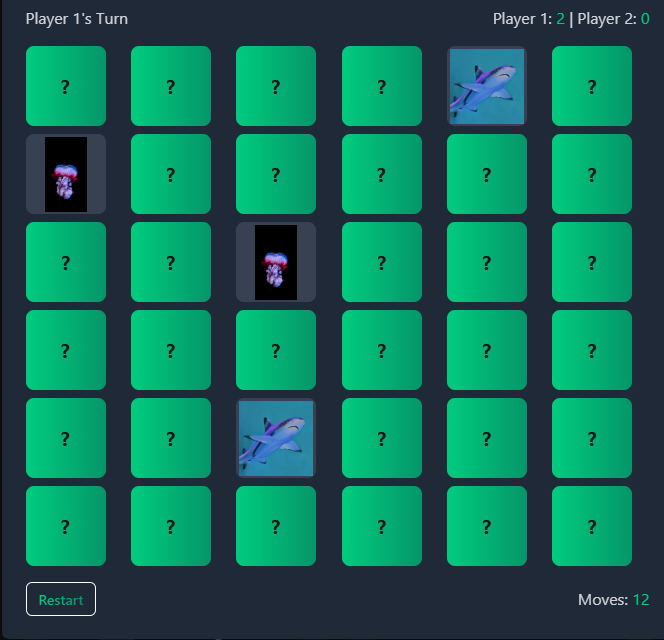
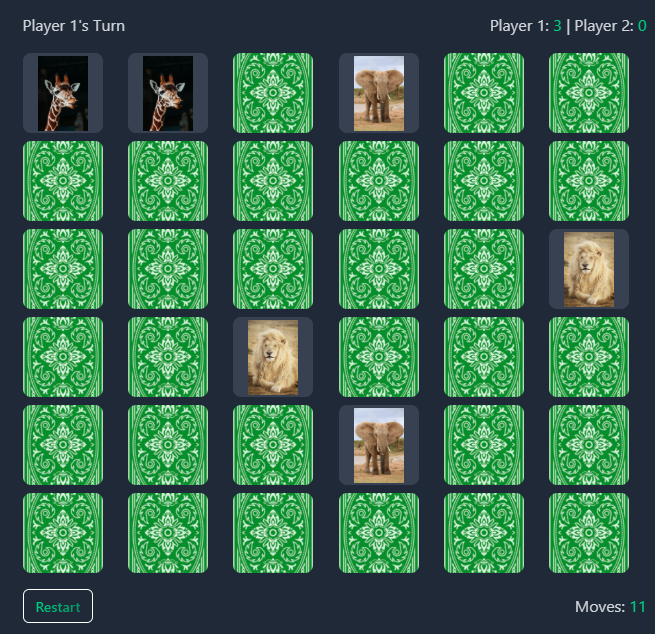
cards

diff --git a/src/components/Solitaire.jsx b/src/components/Solitaire.jsx
@@ -203,15 +203,15 @@ const Solitaire = ({ onClose }) => {
         }
         return;
       }
-      setStock(waste.map((c) => ({ ...c, faceUp: false })).reverse());
+      setStock(waste.map((c) => ({ ...c, faceUp: false })));
       setWaste([]);
     } else {
       // Deal three cards at a time
       const cardsToDeal = Math.min(3, stock.length);
       const newCards = stock
-        .slice(-cardsToDeal)
+        .slice(0, cardsToDeal)
         .map((card) => ({ ...card, faceUp: true }));
-      setStock(stock.slice(0, -cardsToDeal));
+      setStock(stock.slice(cardsToDeal));
       setWaste([...waste, ...newCards]);
     }
   };
@@ -320,24 +320,41 @@ const Solitaire = ({ onClose }) => {
   }
 
   // Card rendering
-  const renderCard = (card, isSelected) => (
+  const renderCard = (card, isSelected, style = {}) => (
     <div
-      className={`w-12 h-18 sm:w-16 sm:h-24 rounded-lg border-2 flex flex-col items-center justify-center text-sm sm:text-xl font-bold shadow-md select-none cursor-pointer
-        ${CARD_COLORS[card.color]} ${isSelected ? "ring-4 ring-yellow-400" : ""}
-        ${!card.faceUp ? "bg-gray-700 border-gray-500 text-gray-700" : ""}
+      className={`w-12 h-18 sm:w-16 sm:h-24 rounded-lg border-2 flex flex-col items-center justify-between text-xs sm:text-base font-bold shadow-md select-none cursor-pointer
+        ${card.faceUp ? "bg-white border-gray-400" : "border-gray-500"}
+        ${isSelected ? "ring-4 ring-yellow-400" : ""}
       `}
       style={{
         marginTop: window.innerWidth < 640 ? "-1.8rem" : "-2.2rem",
         zIndex: isSelected ? 10 : undefined,
+        ...style,
       }}
     >
       {card.faceUp ? (
         <>
-          <span className="text-xs sm:text-base">{card.rank}</span>
-          <span className="text-xs sm:text-base">{card.suit}</span>
+          <span
+            className={`self-start ml-1 mt-1 ${
+              COLORS[card.suit] === "red" ? "text-red-600" : "text-black"
+            }`}
+          >
+            {card.rank} {card.suit}
+          </span>
+          <span
+            className={`self-end mr-1 mb-1 rotate-180 ${
+              COLORS[card.suit] === "red" ? "text-red-600" : "text-black"
+            }`}
+          >
+            {card.rank} {card.suit}
+          </span>
         </>
       ) : (
-        <span className="text-gray-400 text-sm sm:text-base">🂠</span>
+        <img
+          src="/Green card.png"
+          alt="Card back"
+          className="w-full h-full object-cover rounded-lg"
+        />
       )}
     </div>
   );
@@ -358,55 +375,81 @@ const Solitaire = ({ onClose }) => {
           Solitaire
         </h2>
         {/* Foundations, Stock, and Waste above tableau, aligned to columns */}
+        {/* Replace the top row flex with a grid for precise alignment */}
         <div
-          className="w-full flex flex-row justify-center mb-6 sm:mb-8 lg:mb-12 relative"
-          style={{ minHeight: "80px", paddingTop: "25px" }}
+          className="w-full grid grid-cols-8 gap-0 max-w-[900px] mx-auto px-2 items-start"
+          style={{ marginBottom: "2rem" }}
         >
-          {/* 7 columns: 2 for stock/waste, 1 spacer, 4 for foundations */}
-          <div className="flex flex-row w-full max-w-[560px] mx-auto px-2">
-            {/* Stock above col 0 */}
-            <div className="flex flex-col items-center w-12 sm:w-16 mr-2 sm:mr-6">
+          {/* New Game button, far left */}
+          <div
+            className="flex flex-col items-center justify-center col-span-1"
+            style={{ marginRight: "2.5rem" }}
+          >
+            <button
+              onClick={newGame}
+              className="w-12 h-18 sm:w-16 sm:h-24 bg-gradient-to-r from-bright-green to-emerald-600 text-dark-grey rounded-md border border-bright-green hover:from-emerald-600 hover:to-bright-green transition-all duration-300 shadow-[0_0_10px_rgba(0,204,126,0.3)] flex items-center justify-center text-base sm:text-lg font-bold"
+              style={{ minWidth: "3rem", minHeight: "4.5rem" }}
+            >
+              New
+              <br />
+              Game
+            </button>
+          </div>
+          {/* Stock pile, column 2, aligns with first tableau column */}
+          <div className="flex flex-col items-center w-12 sm:w-16 col-span-1">
+            <div
+              className="w-12 h-18 sm:w-16 sm:h-24 rounded-lg border-2 border-amber-700 bg-black flex flex-col items-center justify-center cursor-pointer mb-2"
+              onClick={handleStockClick}
+            >
+              {stock.length === 0 ? (
+                <span className="text-gray-700 text-lg sm:text-2xl">↺</span>
+              ) : (
+                <span className="text-gray-400 text-lg sm:text-2xl">🂠</span>
+              )}
+            </div>
+          </div>
+          {/* Waste pile, column 3 */}
+          <div className="flex flex-col items-start w-36 h-18 sm:w-48 sm:h-24 col-span-1">
+            <div
+              className="relative w-36 h-18 sm:w-48 sm:h-24"
+              onClick={() => handleCardClick("waste")}
+            >
+              {waste.length === 0 && (
+                <div className="absolute bottom-0 left-0 w-12 h-18 sm:w-16 sm:h-24 rounded-lg border-2 border-amber-700 bg-black flex items-center justify-center" />
+              )}
+              {waste.length > 0 &&
+                waste.slice(-3).map((card, idx, arr) =>
+                  renderCard(card, idx === arr.length - 1, {
+                    position: "absolute",
+                    left: `calc(${idx} * 3rem)`,
+                    bottom: 0,
+                    zIndex: idx + 1,
+                    cursor: idx === arr.length - 1 ? "pointer" : "default",
+                    pointerEvents: idx === arr.length - 1 ? "auto" : "none",
+                  })
+                )}
+            </div>
+          </div>
+          {/* Spacer, column 4 */}
+          <div className="col-span-1" />
+          {/* Foundations, columns 5-8 */}
+          {foundations.map((pile, i) => (
+            <div
+              key={i}
+              className="flex flex-col items-center w-12 sm:w-16 col-span-1"
+            >
               <div
                 className="w-12 h-18 sm:w-16 sm:h-24 rounded-lg border-2 border-amber-700 bg-black flex flex-col items-center justify-center cursor-pointer mb-2"
-                onClick={handleStockClick}
+                onClick={() => handleFoundationClick(i)}
               >
-                {stock.length === 0 ? (
-                  <span className="text-gray-700 text-lg sm:text-2xl">↺</span>
+                {pile.length === 0 ? (
+                  <span className="text-gray-700 text-lg sm:text-2xl">A</span>
                 ) : (
-                  <span className="text-gray-400 text-lg sm:text-2xl">🂠</span>
+                  renderCard(pile[pile.length - 1])
                 )}
               </div>
             </div>
-            {/* Waste above col 1 */}
-            <div className="flex flex-col items-center w-12 sm:w-16 mr-4 sm:mr-12">
-              <div
-                className="w-12 h-18 sm:w-16 sm:h-24 rounded-lg border-2 border-amber-700 bg-black flex flex-col items-center justify-center cursor-pointer mb-2"
-                onClick={() => handleCardClick("waste")}
-              >
-                {waste.length > 0 && renderCard(waste[waste.length - 1])}
-              </div>
-            </div>
-            {/* Spacer for columns 2-3 */}
-            <div className="w-12 sm:w-16 mr-2 sm:mr-6" />
-            {/* Foundations above cols 3-6 */}
-            {foundations.map((pile, i) => (
-              <div
-                key={i}
-                className="flex flex-col items-center w-12 sm:w-16 mr-2 sm:mr-6 last:mr-0"
-              >
-                <div
-                  className="w-12 h-18 sm:w-16 sm:h-24 rounded-lg border-2 border-amber-700 bg-black flex flex-col items-center justify-center cursor-pointer mb-2"
-                  onClick={() => handleFoundationClick(i)}
-                >
-                  {pile.length === 0 ? (
-                    <span className="text-gray-700 text-lg sm:text-2xl">A</span>
-                  ) : (
-                    renderCard(pile[pile.length - 1])
-                  )}
-                </div>
-              </div>
-            ))}
-          </div>
+          ))}
         </div>
         {/* Tableau, spaced below the row above */}
         <div className="flex space-x-2 sm:space-x-4 lg:space-x-6 w-full justify-center mt-4 sm:mt-6 px-2">

diff --git a/src/components/MemoryMatch.jsx b/src/components/MemoryMatch.jsx
@@ -245,10 +245,15 @@ const MemoryMatch = ({ onClose }) => {
                       ? "hidden"
                       : "block"
                   }
-                  bg-gradient-to-r from-bright-green to-emerald-600 flex items-center justify-center
+                  flex items-center justify-center
                 `}
               >
-                <span className="text-dark-grey font-bold text-xl">?</span>
+                <img
+                  src="/Memory Green Card.png"
+                  alt="Card back"
+                  className="w-full h-full object-cover rounded-lg"
+                  draggable="false"
+                />
               </div>
               {/* Back of the card (face up - animal image) */}
               <div
